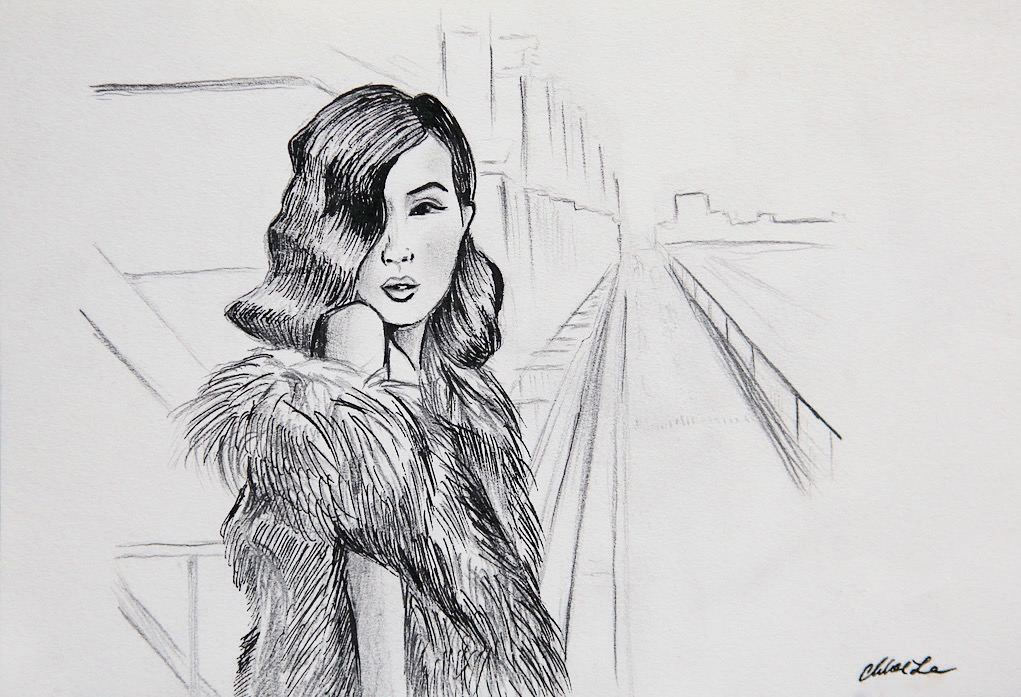
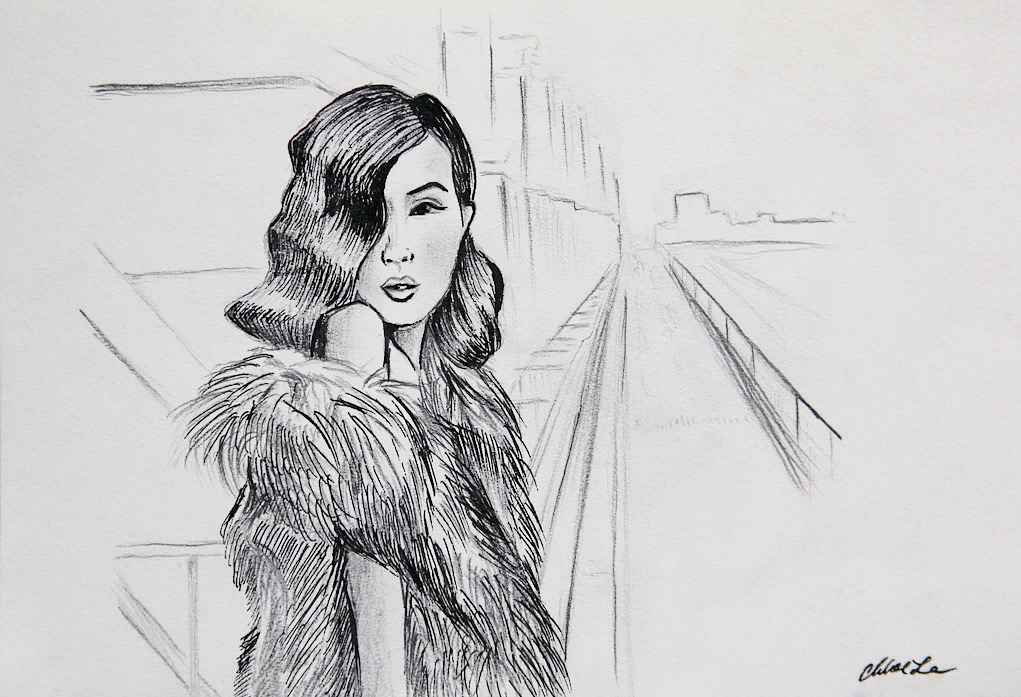
reduce file size for home

Changed region(s): [[0.1822, 0.1205, 0.5465, 1.0], [0.8501, 0.934, 0.9109, 0.9641], [0.3947, 0.2712, 0.4251, 0.3013]]

diff --git a/js/index.js b/js/index.js
@@ -2,19 +2,16 @@ $(document).ready(function() {
   $(".btn").on("click", function(e) {
     e.preventDefault();
     $(".page").addClass("animate_content");
-    // console.log("clicked");
     var href = $(this).attr("href");
     setTimeout(function() {
       window.location = href;
     }, 1500);
-    window.sessionStorage.setItem('splashVisited', 1);
+    window.sessionStorage.setItem("splashVisited", 1);
   });
-  
-  (function () {
+
+  (function() {
     window.onpageshow = function(event) {
-      //if (event.persisted) {
-        $(".page").removeClass("animate_content");
-      //}
+      $(".page").removeClass("animate_content");
     };
   })();
 });

diff --git a/js/home.js b/js/home.js
@@ -4,11 +4,11 @@ $(document).ready(function() {
   if (clickedFromSplash === "1") {
     setTimeout(function() {
       $(".page").removeClass("animate_content");
-      $("body").css('background-color', 'white');
+      $("body").css("background-color", "white");
     }, 1500);
     window.sessionStorage.setItem("splashVisited", 0);
   } else {
     $(".page").removeClass("animate_content");
-    $("body").css('background-color', 'white');
+    $("body").css("background-color", "white");
   }
 });

diff --git a/css/home.css b/css/home.css
@@ -198,7 +198,7 @@ a:active {
   text-align: center;
   opacity: 0.8;
   background: url("artFiles/white.png") center no-repeat,
-    url("artFiles/render.png") center repeat;
+    url("artFiles/render.jpg") center repeat;
   background-size: 50% 33%, 100% 300%;
 }
 
